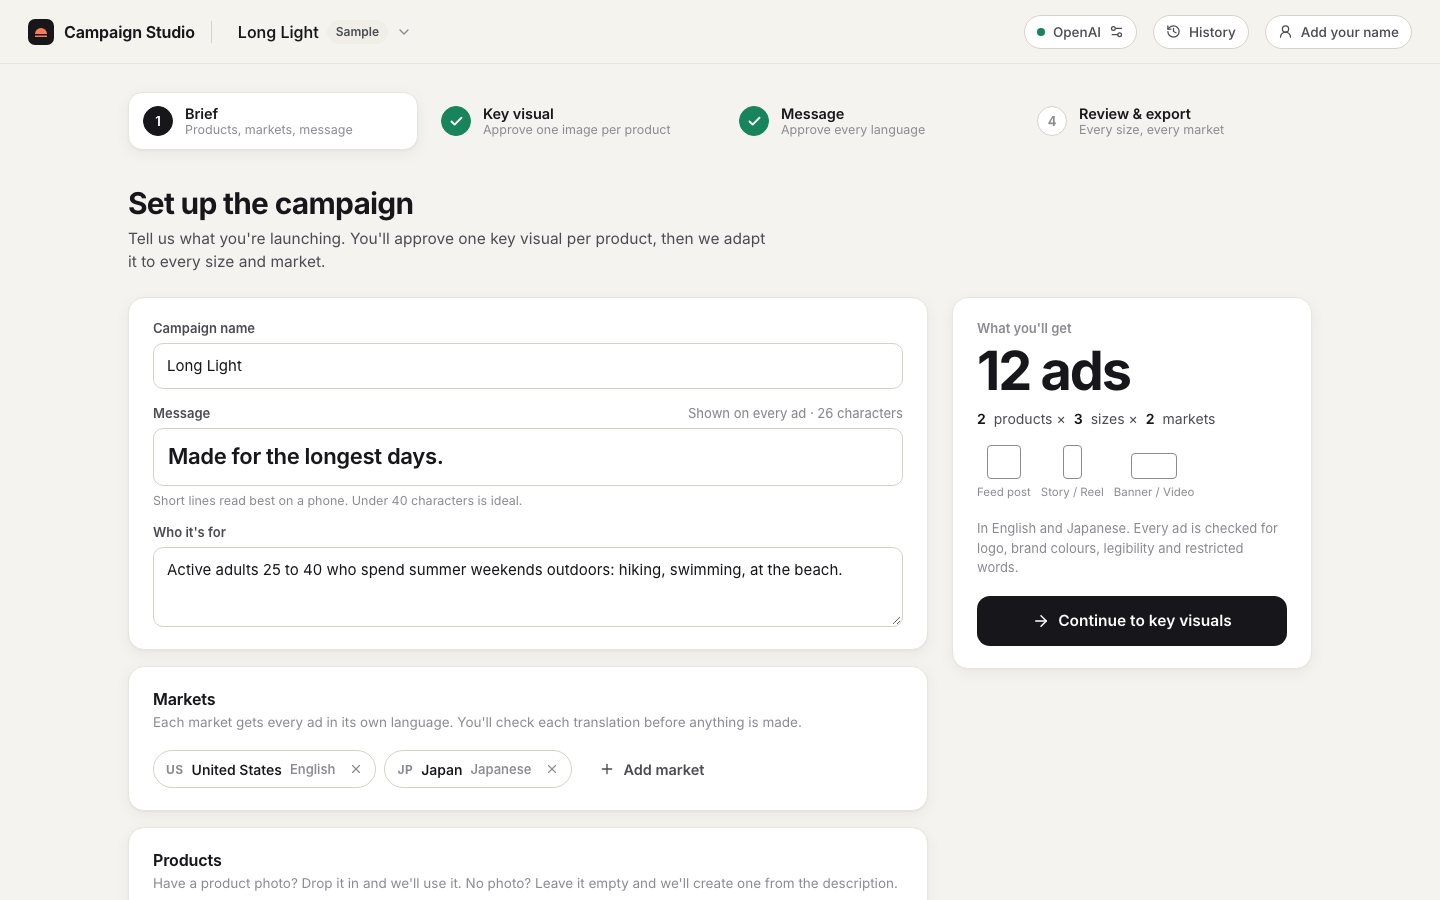
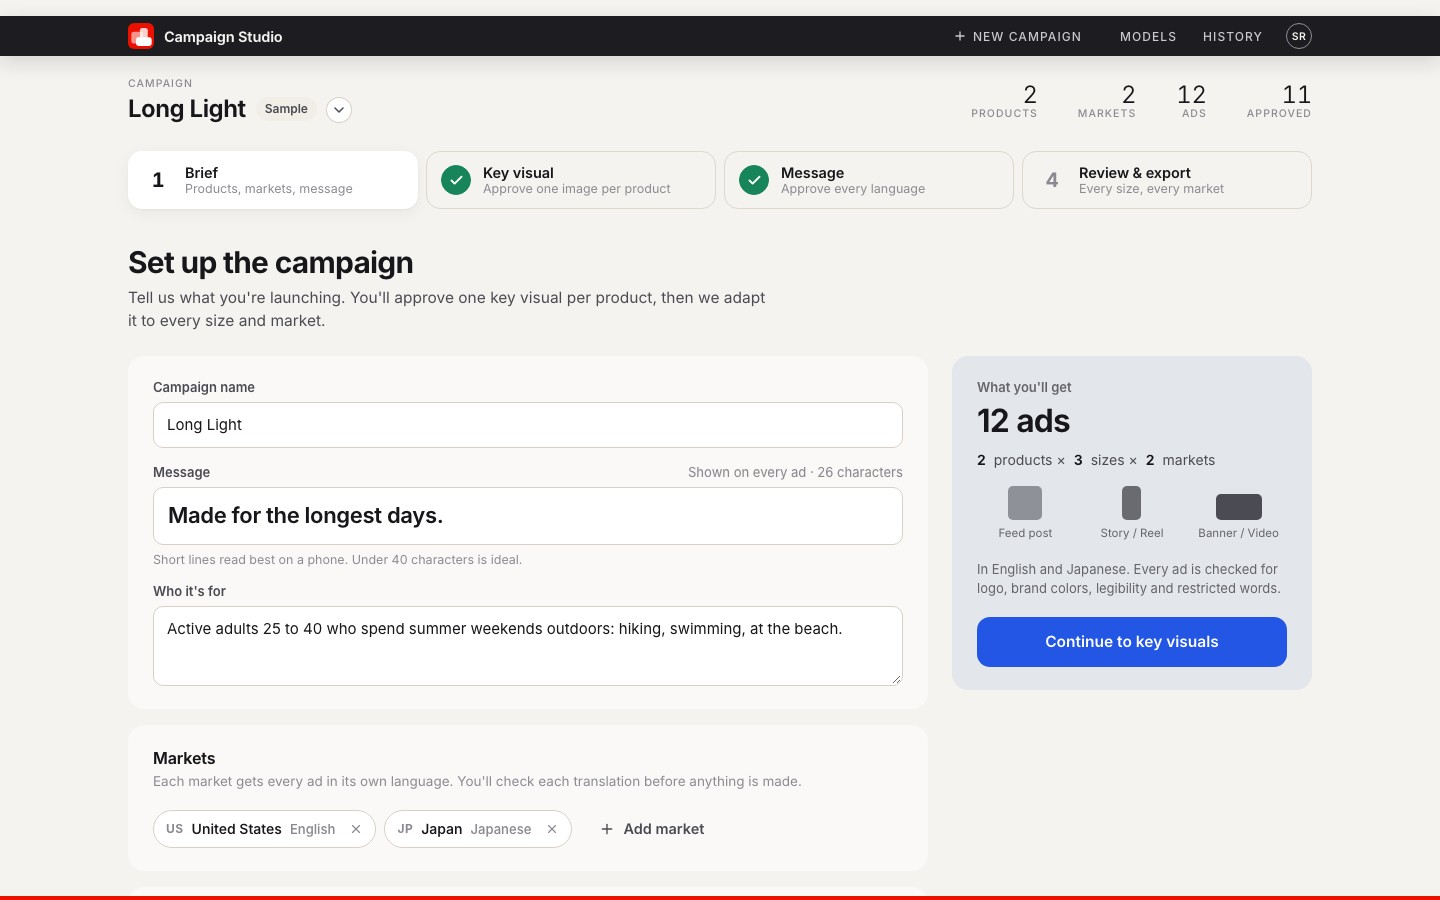
Retake the README screenshots and let every command set itself up
cli.py, the Firefly tests and the stand-in Firefly server now set up and
use the app's private Python environment the way start.py does, so plain
`python3` works on a computer that has never run the app. Before, they
stopped with "No module named PIL" on a Mac's own Python.

The four README screenshots show the new design at 1440x900.

diff --git a/start.py b/start.py
@@ -35,8 +35,12 @@ def venv_python() -> Path:
     return VENV / ("Scripts/python.exe" if os.name == "nt" else "bin/python")
 
 
-def ensure_environment() -> None:
-    """Re-run this script inside .venv, creating it on first use."""
+def ensure_environment(script: str | Path | None = None) -> None:
+    """Re-run a script inside .venv, creating it and installing Pillow on first use.
+
+    start.py calls it for itself. cli.py and the tools call it with their own
+    path, so plain `python3 cli.py` works on a computer that has never run the app.
+    """
     if Path(sys.prefix).resolve() == VENV.resolve():
         return
     py = venv_python()
@@ -62,7 +66,7 @@ def ensure_environment() -> None:
     except FileNotFoundError:
         say(f"\nThe Python environment looks broken. Delete the .venv folder, then run {AGAIN} again.")
         sys.exit(1)
-    args = [str(py), str(Path(__file__).resolve())] + sys.argv[1:]
+    args = [str(py), str(Path(script or __file__).resolve())] + sys.argv[1:]
     if WINDOWS:
         # os.execv on Windows starts a second process and returns the prompt
         # early, which confuses Ctrl+C. Run it as a child and wait instead.

diff --git a/tools/fake_firefly.py b/tools/fake_firefly.py
@@ -16,7 +16,7 @@ By hand, to try the app's Firefly flow offline:
     python3 tools/fake_firefly.py
 
 It prints the lines to put in the environment before `python3 start.py`, and
-the client ID and secret to paste into Settings.
+the client ID and secret to paste under Models.
 """
 from __future__ import annotations
 
@@ -231,7 +231,7 @@ def main() -> int:
     else:
         print(f"  FIREFLY_IMS_URL={fake.url} FIREFLY_API_URL={fake.url} python3 start.py")
     print()
-    print("Then in Settings, connect Adobe Firefly with:")
+    print("Then under Models, connect Adobe Firefly with:")
     print(f"  Client ID:      {CLIENT_ID}")
     print(f"  Client secret:  {CLIENT_SECRET}")
     print()
@@ -247,4 +247,9 @@ def main() -> int:
 
 
 if __name__ == "__main__":
+    # Run inside the app's own Python environment (.venv), setting it up if needed.
+    from pathlib import Path
+    sys.path.insert(0, str(Path(__file__).resolve().parent.parent))
+    import start
+    start.ensure_environment(__file__)
     sys.exit(main())

diff --git a/tools/test_firefly.py b/tools/test_firefly.py
@@ -18,6 +18,11 @@ ROOT = Path(__file__).resolve().parent.parent
 sys.path.insert(0, str(ROOT))
 sys.path.insert(0, str(Path(__file__).resolve().parent))
 
+if __name__ == "__main__":
+    # Run inside the app's own Python environment (.venv), setting it up if needed.
+    import start  # noqa: E402
+    start.ensure_environment(__file__)
+
 from fake_firefly import CLIENT_ID, CLIENT_SECRET, TOKEN, FakeFirefly  # noqa: E402
 
 from studio import config, providers  # noqa: E402

diff --git a/cli.py b/cli.py
@@ -19,6 +19,10 @@ from pathlib import Path
 ROOT = Path(__file__).resolve().parent
 sys.path.insert(0, str(ROOT))
 
+# Run inside the app's own Python environment (.venv), setting it up if needed.
+import start  # noqa: E402
+start.ensure_environment(__file__)
+
 from studio import brief as brief_mod  # noqa: E402
 from studio import config, pipeline, providers  # noqa: E402
 

diff --git a/CHANGELOG.md b/CHANGELOG.md
@@ -14,6 +14,8 @@
 - **Adobe red, kept to the brand.** The app mark keeps its red tile, and a thin red line runs along the bottom of the window, always in view.
 - **The main button never moves.** On every step it sits in a grey panel at the top of the right-hand column, with what's done so far. The bar along the bottom of the screen is gone.
 - **Delete a campaign.** In the campaign menu, every campaign except the sample has a delete button that asks once before removing the campaign and its ads.
+- **Every command sets itself up.** `cli.py`, the Firefly tests and the stand-in server now set up and use the app's private Python environment the way `start.py` does, so they run with plain `python3` on a fresh computer.
+- **README screenshots retaken** for the new look.
 - **Works on a phone.** The bar, steps, headings and the Key visual and Message steps fit a 375px-wide screen.
 
 ## After v2

diff --git a/README.md b/README.md
@@ -182,6 +182,8 @@ python3 cli.py path/to/brief.json --provider openai
 python3 cli.py --images firefly --translation openai
 ```
 
+Like `start.py`, these set up the app's private Python environment the first time, so plain `python3` works on a computer that has never run the app.
+
 `--provider` sets images and translation together; `--images` and `--translation` set them one at a time.
 
 The CLI records its approvals as `cli`, so the report never pretends a person reviewed those ads.
